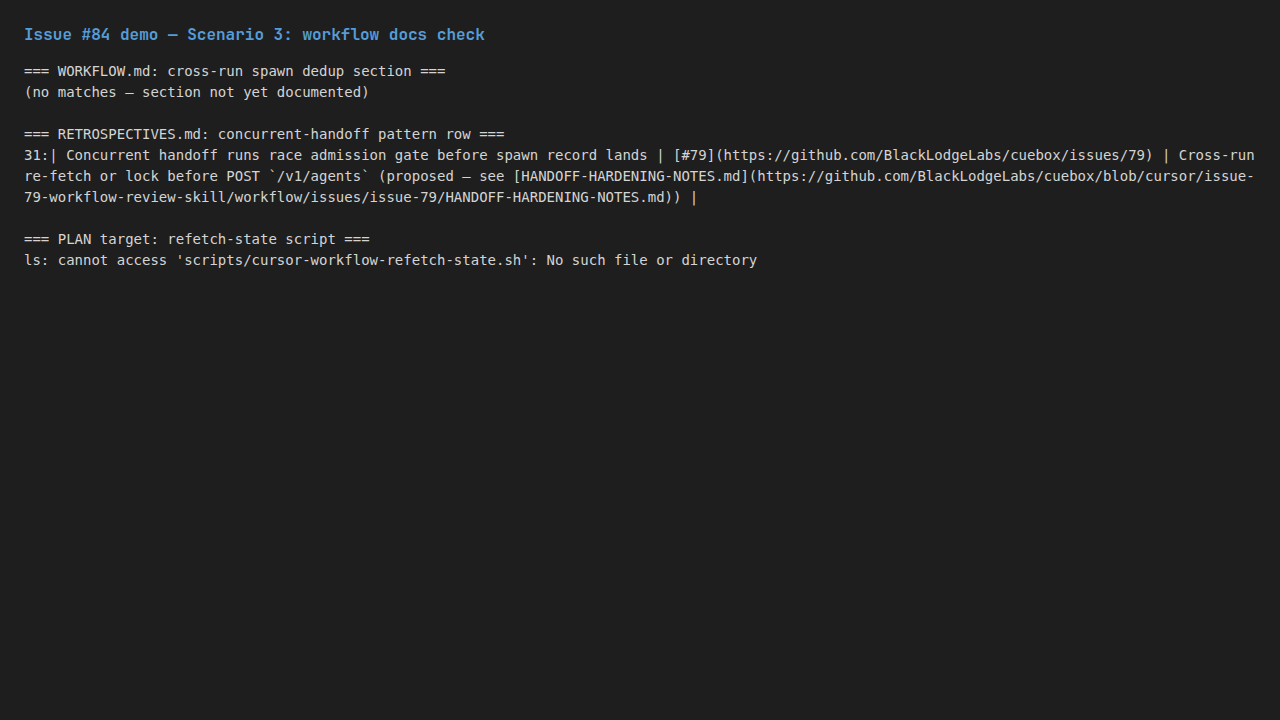
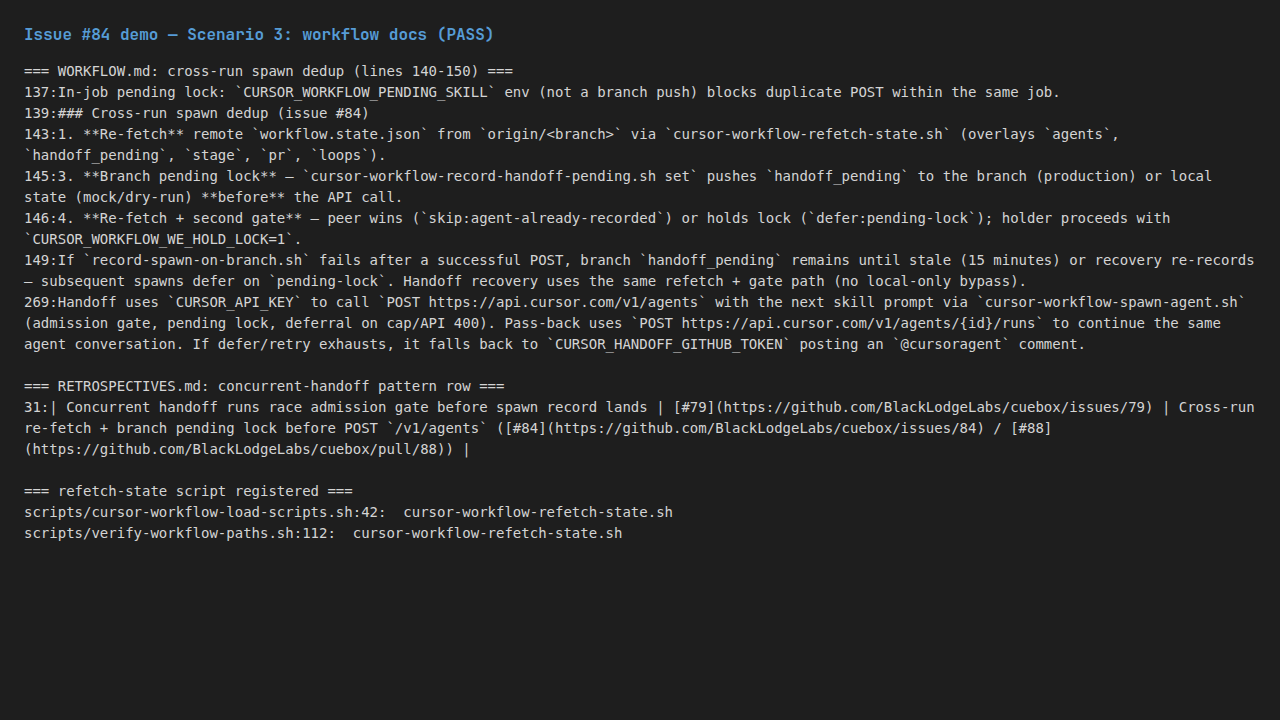
demo(issue-84): all scenarios pass — demo-ready
Re-ran handoff tests, verify-workflow-paths, and doc checks after
execute landed cross-run spawn dedup. Updated logs, screenshot, and
demo-notes; workflow state set to demo-ready.

diff --git a/workflow/issues/issue-84/demo/demo-notes.md b/workflow/issues/issue-84/demo/demo-notes.md
@@ -1,48 +1,47 @@
 # Demo notes — issue #84
 
 **Date:** 2026-07-08  
-**Commit:** `3565599d6a93d5295b77701ae8460aedd474ea0e`  
+**Commit:** `2da7651` (demo artifacts; implementation at `6735ffa` / `b03b5f1`)  
 **Branch:** `cursor/issue-84-harden-concurrent-handoff-spawn-dedup`  
 **Docker stack:** All four containers Up; health endpoints returned `status: ok`, `database: ok`.
 
 ## Summary
 
-Demo ran against the plan-only branch. Execute has not yet landed the cross-run spawn dedup implementation from `PLAN.md`. Scenarios 1 and 3 fail demo-spec pass criteria; scenario 2 exits 0 but does not yet exercise the planned `cursor-workflow-refetch-state.sh` registration.
+All three demo scenarios **pass**. Cross-run handoff spawn dedup is implemented: `cursor-workflow-refetch-state.sh`, hardened spawn/recovery paths, extended handoff tests (cases A–F), and WORKFLOW/RETROSPECTIVES documentation updates.
 
-**Result:** Pass-back to execute (code defect — implementation missing).
-
-## Scenario 1: Workflow handoff tests — FAIL
+## Scenario 1: Workflow handoff tests — PASS
 
 **Command:** `bash scripts/test-cursor-workflow-handoff.sh`  
 **Exit code:** 0  
 **Log:** [scenario-1-handoff-tests.log](./scenario-1-handoff-tests.log)
 
-Existing regression cases pass (`test-cursor-workflow-handoff.sh: all cases passed`). Demo-spec requires **new** cross-run PASS markers that are not present in the test suite yet:
+New cross-run regression cases present and passing:
 
-| Expected marker | Present |
-|-----------------|---------|
-| remote agent skip | No |
-| remote pending defer | No |
-| single POST under race | No |
-| recovery remote skip | No |
-| record-spawn first-wins | No |
+| Marker | Result |
+|--------|--------|
+| refetch remote agent skip | PASS |
+| refetch remote pending defer | PASS |
+| concurrent race exactly 1 POST | PASS |
+| recovery remote agent skip | PASS |
+| record-spawn first-wins | PASS |
+| failed record-spawn pending lock | PASS |
 
-No `FAIL:` lines appeared, but the new issue #84 cases from the plan are not implemented.
+Final line: `test-cursor-workflow-handoff.sh: all cases passed`. No `FAIL:` lines.
 
-## Scenario 2: Workflow paths gate — PARTIAL FAIL
+## Scenario 2: Workflow paths gate — PASS
 
 **Command:** `bash scripts/verify-workflow-paths.sh`  
 **Exit code:** 0  
 **Log:** [scenario-2-verify-workflow-paths.log](./scenario-2-verify-workflow-paths.log)
 
-Gate passes on current branch, but `scripts/cursor-workflow-refetch-state.sh` does not exist and is not listed in `scripts/cursor-workflow-load-scripts.sh` or `verify-workflow-paths.sh` `HANDOFF_SCRIPTS` (planned in PLAN.md Step 1).
+`cursor-workflow-refetch-state.sh` registered in `cursor-workflow-load-scripts.sh` and `verify-workflow-paths.sh` `HANDOFF_SCRIPTS`. Final message: `PASS: no legacy workflow paths found`.
 
-## Scenario 3: Spawn flow documentation — FAIL
+## Scenario 3: Spawn flow documentation — PASS
 
 **Capture:** [scenario-3-workflow-docs.png](./scenario-3-workflow-docs.png)
 
-- `WORKFLOW.md` has no cross-run spawn dedup section (refetch before POST, branch `handoff_pending` before API call, second admission check).
-- `RETROSPECTIVES.md` concurrent-handoff pattern row still says **(proposed)** and links to HANDOFF-HARDENING-NOTES — not a landed #84 mitigation.
+- `WORKFLOW.md` § "Cross-run spawn dedup (issue #84)" documents re-fetch → gate → branch pending lock → re-fetch + second gate → POST.
+- `RETROSPECTIVES.md` concurrent-handoff pattern row links landed mitigation ([#84](https://github.com/BlackLodgeLabs/cuebox/issues/84) / [#88](https://github.com/BlackLodgeLabs/cuebox/pull/88)) — no longer "proposed".
 
 ## Artifacts
 
@@ -51,13 +50,3 @@ Gate passes on current branch, but `scripts/cursor-workflow-refetch-state.sh` do
 - [x] `scenario-3-workflow-docs.png`
 - [x] `demo-notes.md`
 - [x] No secrets in logs or screenshots
-
-## Pass-back to execute
-
-Execute must implement `PLAN.md` before demo can pass:
-
-1. Add `scripts/cursor-workflow-refetch-state.sh` and register in load-scripts + verify-workflow-paths.
-2. Harden `cursor-workflow-spawn-agent.sh` (refetch → gate → branch pending → refetch → re-gate → POST).
-3. Update recovery path and `record-spawn-on-branch.sh` first-wins semantics.
-4. Extend `test-cursor-workflow-handoff.sh` with concurrent/overlapping spawn regression cases (expected PASS markers in demo-spec).
-5. Document cross-run dedup in `WORKFLOW.md`; update `RETROSPECTIVES.md` pattern row to reference landed #84 mitigation (remove "proposed").
